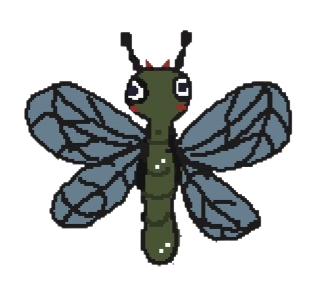
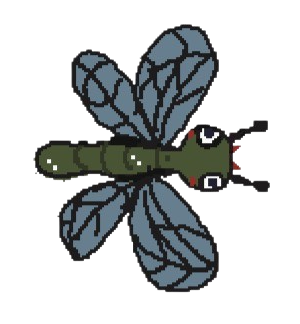
versão 1 pronta

diff --git a/main.py b/main.py
@@ -1,90 +1,262 @@
 from pygame import *
 from classes import *
+import random
+import sys
 
 init()
 
+libelula = libelula()
+lib2 = libelula2()
 flor = flor()
+bat = morcego()
 prota = Prota()
-tela = display.set_mode((600,600))
+LARGURA, ALTURA = 600, 600
+tela = display.set_mode((600, 600))
 display.set_caption("CastleCat: Em busca da dignidade do povo felino")
 rodando = True
 fps = time.Clock()
+
 vidaprota = 5
 vida_bat = 1
-vida_flor = 2
+vida_flor = 1
 vida_libelula = 1
+vida_libelula2 = 1
 vidadracula = 20
 placar = 0
+
+tiros = []                                  
+
 fonte = font.SysFont("Courier", 20)
+
 cenario = image.load("imagens/cenarioluta1.png")
-cenario = transform.scale(cenario, (600,600))
-tela.blit(cenario, (0, 0))
-tela.blit(prota.protaskin, prota.protapos)
-tela.blit(prota.gatoprota, (prota.protapos[0] -20, prota.protapos[1] - 20))
+cenario = transform.scale(cenario, (600, 600))
+
+jogo_iniciado = False
+ 
+# Cores
+PRETO = (0, 0, 0)
+BRANCO = (255, 255, 255)
+VERDE = (0, 255, 0)
+
+# Fonte
+fonte_titulo = font.SysFont("Courier", 50, bold=True)
+fonte_subtitulo = font.SysFont("Courier", 20)
+
+def exibir_tela_vitoria():
+    """Loop exclusivo para a tela de vitória."""
+    executando_win = True
+    
+    while executando_win:
+        tela.fill(PRETO)
+        
+        # Renderização dos textos
+        texto_ganhou = fonte_titulo.render("VOCÊ VENCEU!", True, VERDE)
+        texto_instrucao = fonte_subtitulo.render("Pressione ESPAÇO para reiniciar ou ESC para sair", True, BRANCO)
+        
+        # Centralizando os textos na tela
+        tela.blit(texto_ganhou, (LARGURA // 2 - texto_ganhou.get_width() // 2, ALTURA // 3))
+        tela.blit(texto_instrucao, (LARGURA // 2 - texto_instrucao.get_width() // 2, ALTURA // 2))
+        
+        # Captura de eventos na tela de vitória
+        for evento in event.get():
+            if evento.type == QUIT:
+                quit()
+                sys.exit()
+            if evento.type == KEYDOWN:
+                if evento.key == K_SPACE:
+                    executando_win = False  # Sai da tela de vitória e volta ao jogo
+                if evento.key == K_ESCAPE:
+                    quit()
+                    sys.exit()
+                    
+        display.flip()
+        fps.tick(60)
 
 
 while rodando:
-    fps.tick(60) # Aumentei para 60 para o movimento ficar muito mais liso
-    
-    # 1. LOOP DE EVENTOS (Apenas para fechar a janela)
+    fps.tick(60)
+
+    # ---------------- EVENTOS ----------------
     for e in event.get():
         if e.type == QUIT:
             rodando = False
-        
-    # 2. CAPTURA DE TECLAS (FORA do loop de eventos - Alinhado com o "for")
+
+        if e.type == KEYDOWN and e.key == K_SPACE:
+            cx = prota.protapos[0] + 15      # centro horizontal do gato
+            cy = prota.protapos[1] + 25      # centro vertical do gato
+            tiros.append(Tiro(cx, cy, prota.change_to))
+
+        if placar >= 150:
+            exibir_tela_vitoria()
+            # Reinicia o jogo após a tela de vitória
+            vidaprota = 5
+            vida_bat = 1
+            vida_flor = 1
+            vida_libelula = 1
+            vida_libelula2 = 1
+            placar = 0
+            prota.protapos = (300, 300)
+            flor.florpos = (random.randint(40, 560), 600)
+            libelula.libelulapos = (0, random.randint(40, 560))
+            lib2.libelula2pos = (600, random.randint(40, 560))
+            bat.morcegopos = (random.randint(40, 560), 0)
+
+    # ---------------- MOVIMENTO ----------------
     teclas = key.get_pressed()
-        
+
+    if teclas[K_w] or teclas[K_s] or teclas[K_a] or teclas[K_d]:
+        jogo_iniciado = True
+
     if teclas[K_w] and prota.protapos[1] > 0:
         prota.change_to = "UP"
-        prota.protapos = (prota.protapos[0], prota.protapos[1] - 4) # Reduzi o passo para compensar os 60 FPS
-            
-    if teclas[K_s] and prota.protapos[1] < 550: # Ajustado limite para o boneco não sumir embaixo
+        prota.protapos = (prota.protapos[0], prota.protapos[1] - 4)
+
+    if teclas[K_s] and prota.protapos[1] < 550:
         prota.change_to = "DOWN"
-        prota.protapos = (prota.protapos[0], prota.protapos[1] + 4)                
-        
+        prota.protapos = (prota.protapos[0], prota.protapos[1] + 4)
+
     if teclas[K_a] and prota.protapos[0] > 0:
         prota.change_to = "LEFT"
         prota.protapos = (prota.protapos[0] - 4, prota.protapos[1])
-            
-    if teclas[K_d] and prota.protapos[0] < 550: # Ajustado limite para o boneco não sumir na direita
+
+    if teclas[K_d] and prota.protapos[0] < 550:
         prota.change_to = "RIGHT"
         prota.protapos = (prota.protapos[0] + 4, prota.protapos[1])
 
-    # 3. RENDERIZAÇÃO (FORA do loop de eventos)
-    tela.fill((0,0,0))
-    
-    # REMOVIDO o image.load daqui. Usamos a variável 'cenario' que foi criada lá no topo!
+
+    tela.fill((0, 0, 0))
     tela.blit(cenario, (0, 0))
-            
+
+    # Protagonista
     if prota.change_to == "UP":
         tela.blit(prota.protaskin, prota.protapos)
-        tela.blit(prota.gatoprota_tras, (prota.protapos[0] - 20, prota.protapos[1] - 20))
+        tela.blit(prota.gatoprota_tras,
+                  (prota.protapos[0] - 20, prota.protapos[1] - 20))
     elif prota.change_to == "DOWN":
         tela.blit(prota.protaskin, prota.protapos)
-        tela.blit(prota.gatoprota, (prota.protapos[0] - 20, prota.protapos[1] - 20))
+        tela.blit(prota.gatoprota,
+                  (prota.protapos[0] - 20, prota.protapos[1] - 20))
     elif prota.change_to == "LEFT":
         tela.blit(prota.protaskin, prota.protapos)
-        tela.blit(prota.gatoprota_esquerda, (prota.protapos[0] - 20, prota.protapos[1] - 20))  
+        tela.blit(prota.gatoprota_esquerda,
+                  (prota.protapos[0] - 20, prota.protapos[1] - 20))
     elif prota.change_to == "RIGHT":
         tela.blit(prota.protaskin, prota.protapos)
-        tela.blit(prota.gatoprota_direita, (prota.protapos[0] - 20, prota.protapos[1] - 20))
+        tela.blit(prota.gatoprota_direita,
+                  (prota.protapos[0] - 20, prota.protapos[1] - 20))
 
-    #inimigos
-    tela.blit(flor.flor, flor.florpos)
-    if flor.florpos[1] > 600:
-        x = random.randint(40, 560)
-        y = 0
-        flor.florpos = (x,y)
-    y = flor.florpos[1] + 2
-    flor.florpos = (flor.florpos[0], y)
 
-    # Texto do Placar e Vida
-    texto = fonte.render("Placar: " + str(placar), True, (255,255,255))
-    texto2 = fonte.render("Vida: " + str(vidaprota), True, (255,255,255))
+    if jogo_iniciado:
+        # Inimigo flor
+        tela.blit(flor.flor, flor.florpos)
+        if flor.florpos[1] < 0:
+            x_novo = random.randint(40, 560)
+            flor.florpos = (x_novo, 600)
+        else:
+            y_novo = flor.florpos[1] - 6
+            flor.florpos = (flor.florpos[0], y_novo)
+
+        #Inimigo libelula
+        tela.blit(libelula.libelula, libelula.libelulapos)
+        if libelula.libelulapos[0] > 600:
+            dy_novo = random.randint(40, 560)
+            libelula.libelulapos = (0, dy_novo)
+        else:
+            dx_novo = libelula.libelulapos[0] + 5
+            libelula.libelulapos = (dx_novo, libelula.libelulapos[1])
+
+        #libelula2
+        tela.blit(lib2.libelula2, lib2.libelula2pos)
+        if lib2.libelula2pos[0] < 0:
+            fy_novo = random.randint(40, 560)
+            lib2.libelula2pos = (600, fy_novo)
+        else:
+            fx_novo = lib2.libelula2pos[0] - 5
+            lib2.libelula2pos = (fx_novo, lib2.libelula2pos[1])
+
+        #Morcego
+        tela.blit(bat.morcego, bat.morcegopos)
+        if bat.morcegopos[1] > 600:
+            by_novo = random.randint(40, 560)
+            bat.morcegopos = (by_novo, 0)
+        else:
+            bx_novo = bat.morcegopos[1] + 3
+            bat.morcegopos = (bat.morcegopos[0], bx_novo)
+
+    # ---------------- TIROS ----------------
+    for t in tiros[:]:                        # [:] para poder remover durante o loop
+        t.atualizar()
+        if t.fora_da_tela():
+            tiros.remove(t)
+        else:
+            t.desenhar(tela)
+
+    for t in tiros[:]:
+        if t.rect.colliderect(flor.flor.get_rect(topleft=flor.florpos)):
+            tiros.remove(t)
+            vida_flor -= 1  
+            placar += 10
+            # reposiciona a flor
+            flor.florpos = (random.randint(40, 560), 0)
+
+        if t.rect.colliderect(libelula.libelula.get_rect(topleft=libelula.libelulapos)):
+            tiros.remove(t)
+            vida_libelula -= 1  
+            placar += 10
+            # reposiciona a libelula
+            libelula.libelulapos = (0, random.randint(0, 560))
+
+        if t.rect.colliderect(lib2.libelula2.get_rect(topleft=lib2.libelula2pos)):
+            tiros.remove(t)
+            vida_libelula2 -= 1  
+            placar += 10
+            # reposiciona a libelula2
+            lib2.libelula2pos = (600, random.randint(0, 560))
+        
+        if t.rect.colliderect(bat.morcego.get_rect(topleft=bat.morcegopos)):
+            tiros.remove(t)
+            vida_bat -= 1  
+            placar += 10
+            # reposiciona o morcego
+            bat.morcegopos = (random.randint(40, 560), 0)
+
+    if vida_flor <= 0:
+        vida_flor = 1
+        flor.florpos = (random.randint(40, 560), 0)
+
+    if vida_libelula <= 0:
+        vida_libelula = 1
+        libelula.libelulapos = (libelula.libelulapos[1], random.randint(40, 560))
+
+    if vida_libelula2 <= 0:
+        vida_libelula2 = 1
+        lib2.libelula2pos = (lib2.libelula2pos[1], random.randint(40, 560))
+    
+    if vida_bat <= 0:
+        vida_bat = 1
+        bat.morcegopos = (random.randint(40, 560), 0)
+
+    if prota.protaskin.get_rect(topleft=prota.protapos).colliderect(flor.flor.get_rect(topleft=flor.florpos)):
+        vidaprota -= 1
+        flor.florpos = (random.randint(40, 560), 0)
+    if prota.protaskin.get_rect(topleft=prota.protapos).colliderect(libelula.libelula.get_rect(topleft=libelula.libelulapos)):
+        vidaprota -= 1
+        libelula.libelulapos = (libelula.libelulapos[1], random.randint(40, 560))
+    if prota.protaskin.get_rect(topleft=prota.protapos).colliderect(lib2.libelula2.get_rect(topleft=lib2.libelula2pos)):
+        vidaprota -= 1
+        lib2.libelula2pos = (lib2.libelula2pos[1], random.randint(40, 560))
+    if prota.protaskin.get_rect(topleft=prota.protapos).colliderect(bat.morcego.get_rect(topleft=bat.morcegopos)):
+        vidaprota -= 1
+        bat.morcegopos = (random.randint(40, 560), 0)
+    if vidaprota == 0:
+        rodando = False
+
+    # ---------------- HUD ----------------
+    texto = fonte.render("Placar: " + str(placar), True, (255, 255, 255))
+    texto2 = fonte.render("Vida: " + str(vidaprota), True, (255, 255, 255))
     tela.blit(texto, (20, 10))
     tela.blit(texto2, (500, 10))
-    
-    # Atualiza a tela inteira de uma vez só
+
     display.update()
 
 quit()

diff --git a/classes.py b/classes.py
@@ -18,9 +18,18 @@ class Prota():
         self.direction = "up"
         self.change_to = self.direction
 
-
+#flor
 x = random.randint(40, 500)
-y = 0
+y = 600
+#libelula
+dx = 0
+dy = random.randint(40, 500)
+
+fx = 600
+fy = random.randint(40, 500)
+
+bx = random.randint(40, 500)
+by = 0
 
 class flor():
     def __init__(self):
@@ -28,16 +37,54 @@ class flor():
         self.flor = transform.scale(self.flor, (60,60))
         self.florpos = (x,y)
 
-class Tiro:
-    def __init__(self, x, y, dx, dy):
-        self.rect = Rect(x, y, 8, 8)
+class libelula():
+    def __init__(self):
+        self.libelula = image.load("imagens/libelula.png")
+        self.libelula = transform.scale(self.libelula, (60,60))
+        self.libelulapos = (dx,dy)
+
+class libelula2():
+    def __init__(self):
+        self.libelula2 = image.load("imagens/libelula2.png")
+        self.libelula2 = transform.scale(self.libelula2, (60,60))
+        self.libelula2pos = (fx,fy)
+
+class morcego():
+    def __init__(self):
+        self.morcego = image.load("imagens/morceguinho.png")
+        self.morcego = transform.scale(self.morcego, (85,60))
+        self.morcegopos = (bx,by)
+
+class Tiro():
+    def __init__(self, x, y, direcao):
+        self.direcao = direcao.upper()    # "UP", "DOWN", "LEFT", "RIGHT"
         self.velocidade = 8
-        self.dx = dx
-        self.dy = dy
+
+        
+        if direcao in ("UP", "DOWN"):
+            self.tiro = image.load("imagens/olho.png")
+            self.tiro = transform.scale(self.tiro, (18, 26))
+        else:
+            self.tiro = image.load("imagens/olho.png")
+            self.tiro = transform.scale(self.tiro, (26, 18))
+      # vermelho
+
+        # Posição inicial centralizada no personagem
+        self.rect = self.tiro.get_rect(center=(x, y))
 
     def atualizar(self):
-        self.rect.x += self.dx * self.velocidade
-        self.rect.y += self.dy * self.velocidade
+        if self.direcao == "UP":
+            self.rect.y -= self.velocidade
+        elif self.direcao == "DOWN":
+            self.rect.y += self.velocidade
+        elif self.direcao == "LEFT":
+            self.rect.x -= self.velocidade
+        elif self.direcao == "RIGHT":
+            self.rect.x += self.velocidade
 
-    def desenhar(self, superficie):
-        pygame.draw.rect(superficie, (255, 0, 0), self.rect)
+    def desenhar(self, tela):
+        tela.blit(self.tiro, self.rect)
+
+    def fora_da_tela(self):
+        return (self.rect.right < 0 or self.rect.left > 600 or
+                self.rect.bottom < 0 or self.rect.top > 600)
